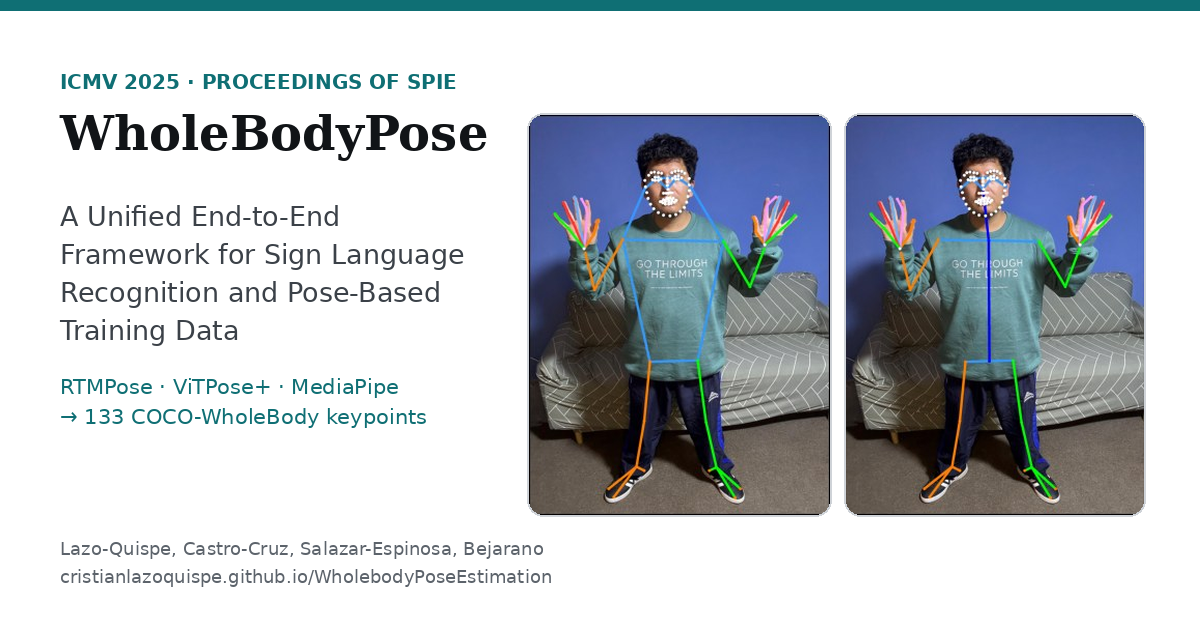
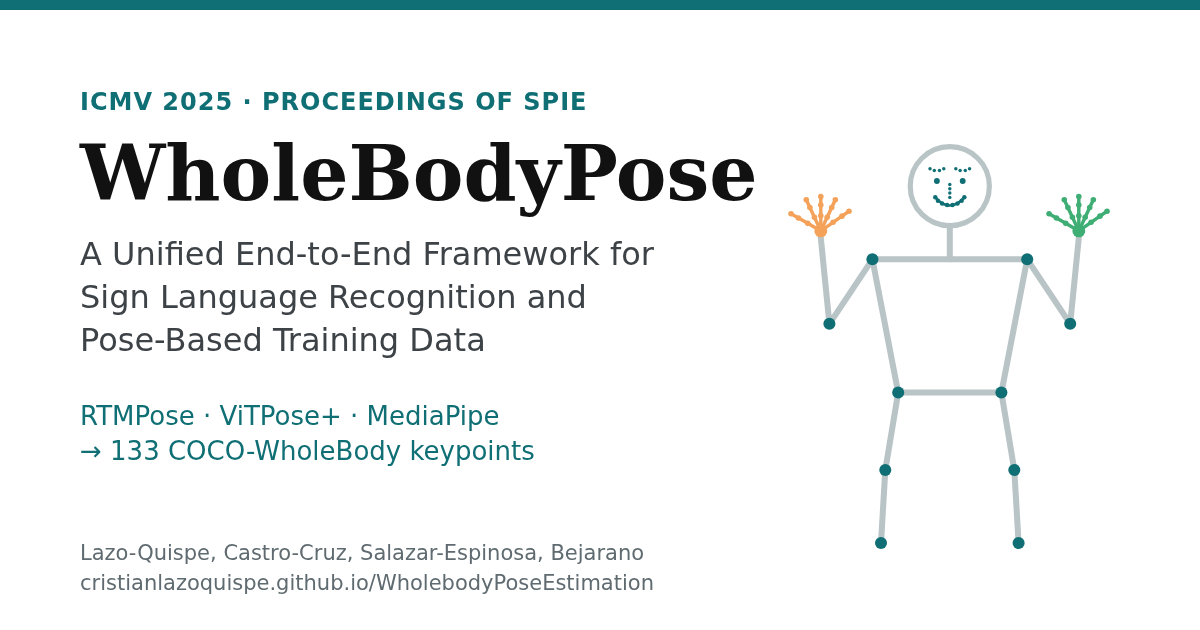
Website: stick-figure link preview image
Replaces the photo in og.png with a stick-figure skeleton; cache-busts the og/twitter image URLs.

Claude-Session: https://claude.ai/code/session_011RYu34RFEQ6JjK74Z4PQ2r

diff --git a/website/index.html b/website/index.html
@@ -393,14 +393,14 @@
   <meta property="og:title" content="WholeBodyPose: A Unified End-to-End Framework for Sign Language Recognition and Pose-Based Training Data">
   <meta property="og:description" content="RTMPose, ViTPose+ and MediaPipe behind one API that returns 133 COCO-WholeBody keypoints, plus the video pipeline and NLMS filtering for training-ready pose sequences. ICMV 2025 (SPIE).">
   <meta property="og:url" content="https://cristianlazoquispe.github.io/WholebodyPoseEstimation/">
-  <meta property="og:image" content="https://cristianlazoquispe.github.io/WholebodyPoseEstimation/static/images/og.png">
+  <meta property="og:image" content="https://cristianlazoquispe.github.io/WholebodyPoseEstimation/static/images/og.png?v=2">
   <meta property="og:image:width" content="1200">
   <meta property="og:image:height" content="630">
-  <meta property="og:image:alt" content="WholeBodyPose title card next to the COCO-133 and OpenPose-135 keypoint layouts from the paper.">
+  <meta property="og:image:alt" content="WholeBodyPose: stick-figure skeleton with face and hand keypoints.">
   <meta name="twitter:card" content="summary_large_image">
   <meta name="twitter:title" content="WholeBodyPose (ICMV 2025)">
   <meta name="twitter:description" content="One API, three pose backends, 133 COCO-WholeBody keypoints: training-ready pose sequences for sign language recognition.">
-  <meta name="twitter:image" content="https://cristianlazoquispe.github.io/WholebodyPoseEstimation/static/images/og.png">
+  <meta name="twitter:image" content="https://cristianlazoquispe.github.io/WholebodyPoseEstimation/static/images/og.png?v=2">
 
   <script>document.documentElement.classList.remove('no-js');</script>
   <link rel="preconnect" href="https://fonts.googleapis.com">
